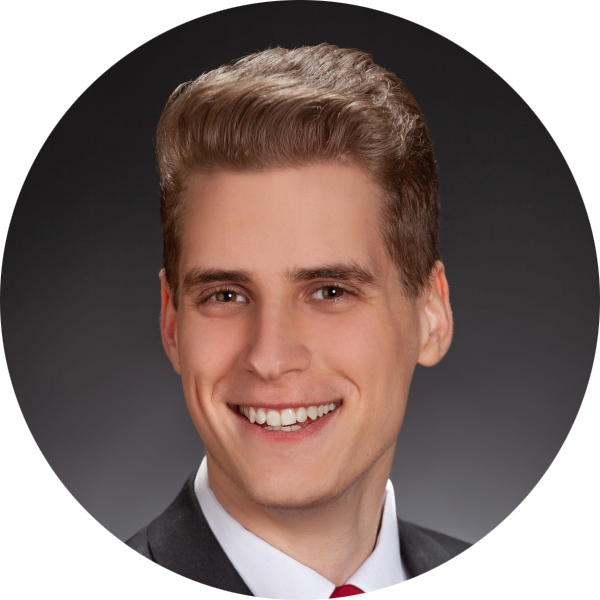
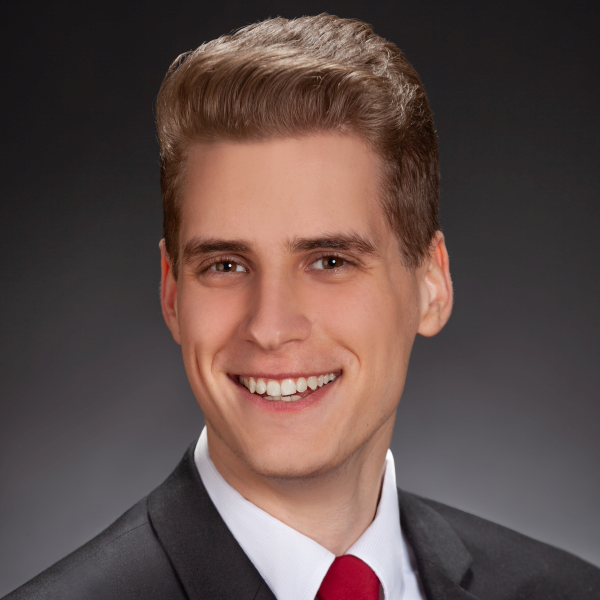
Updates

diff --git a/index.html b/index.html
@@ -1,1 +1,1 @@
-<!doctype html><html lang="en"><head><meta charset="utf-8"/><link rel="icon" href="/martin_bacsur.me/favicon.ico"/><meta name="viewport" content="width=device-width,initial-scale=1"/><meta name="theme-color" content="#000000"/><meta name="description" content="Web site created using create-react-app"/><link rel="apple-touch-icon" href="/martin_bacsur.me/logo192.png"/><link rel="manifest" href="/martin_bacsur.me/manifest.json"/><title>Martin Bacsur - Hungary</title><link href="/martin_bacsur.me/static/css/main.150d6966.chunk.css" rel="stylesheet"></head><body><noscript>You need to enable JavaScript to run this app.</noscript><div id="root"></div><script>!function(e){function r(r){for(var n,a,i=r[0],c=r[1],f=r[2],s=0,p=[];s<i.length;s++)a=i[s],Object.prototype.hasOwnProperty.call(o,a)&&o[a]&&p.push(o[a][0]),o[a]=0;for(n in c)Object.prototype.hasOwnProperty.call(c,n)&&(e[n]=c[n]);for(l&&l(r);p.length;)p.shift()();return u.push.apply(u,f||[]),t()}function t(){for(var e,r=0;r<u.length;r++){for(var t=u[r],n=!0,i=1;i<t.length;i++){var c=t[i];0!==o[c]&&(n=!1)}n&&(u.splice(r--,1),e=a(a.s=t[0]))}return e}var n={},o={1:0},u=[];function a(r){if(n[r])return n[r].exports;var t=n[r]={i:r,l:!1,exports:{}};return e[r].call(t.exports,t,t.exports,a),t.l=!0,t.exports}a.e=function(e){var r=[],t=o[e];if(0!==t)if(t)r.push(t[2]);else{var n=new Promise((function(r,n){t=o[e]=[r,n]}));r.push(t[2]=n);var u,i=document.createElement("script");i.charset="utf-8",i.timeout=120,a.nc&&i.setAttribute("nonce",a.nc),i.src=function(e){return a.p+"static/js/"+({}[e]||e)+"."+{3:"fb883f2f"}[e]+".chunk.js"}(e);var c=new Error;u=function(r){i.onerror=i.onload=null,clearTimeout(f);var t=o[e];if(0!==t){if(t){var n=r&&("load"===r.type?"missing":r.type),u=r&&r.target&&r.target.src;c.message="Loading chunk "+e+" failed.\n("+n+": "+u+")",c.name="ChunkLoadError",c.type=n,c.request=u,t[1](c)}o[e]=void 0}};var f=setTimeout((function(){u({type:"timeout",target:i})}),12e4);i.onerror=i.onload=u,document.head.appendChild(i)}return Promise.all(r)},a.m=e,a.c=n,a.d=function(e,r,t){a.o(e,r)||Object.defineProperty(e,r,{enumerable:!0,get:t})},a.r=function(e){"undefined"!=typeof Symbol&&Symbol.toStringTag&&Object.defineProperty(e,Symbol.toStringTag,{value:"Module"}),Object.defineProperty(e,"__esModule",{value:!0})},a.t=function(e,r){if(1&r&&(e=a(e)),8&r)return e;if(4&r&&"object"==typeof e&&e&&e.__esModule)return e;var t=Object.create(null);if(a.r(t),Object.defineProperty(t,"default",{enumerable:!0,value:e}),2&r&&"string"!=typeof e)for(var n in e)a.d(t,n,function(r){return e[r]}.bind(null,n));return t},a.n=function(e){var r=e&&e.__esModule?function(){return e.default}:function(){return e};return a.d(r,"a",r),r},a.o=function(e,r){return Object.prototype.hasOwnProperty.call(e,r)},a.p="/martin_bacsur.me/",a.oe=function(e){throw console.error(e),e};var i=this.webpackJsonpmartin_bacsur_dot_me=this.webpackJsonpmartin_bacsur_dot_me||[],c=i.push.bind(i);i.push=r,i=i.slice();for(var f=0;f<i.length;f++)r(i[f]);var l=c;t()}([])</script><script src="/martin_bacsur.me/static/js/2.4861e9f5.chunk.js"></script><script src="/martin_bacsur.me/static/js/main.0bc8b37c.chunk.js"></script></body></html>
+<!doctype html><html lang="en"><head><meta charset="utf-8"/><link rel="icon" href="/martin_bacsur.me/favicon.ico"/><meta name="viewport" content="width=device-width,initial-scale=1"/><meta name="theme-color" content="#000000"/><meta name="description" content="Web site created using create-react-app"/><link rel="apple-touch-icon" href="/martin_bacsur.me/logo192.png"/><link rel="manifest" href="/martin_bacsur.me/manifest.json"/><title>Martin Bacsur - Hungary</title><link href="/martin_bacsur.me/static/css/main.0732736b.chunk.css" rel="stylesheet"></head><body><noscript>You need to enable JavaScript to run this app.</noscript><div id="root"></div><script>!function(e){function r(r){for(var n,a,i=r[0],c=r[1],f=r[2],s=0,p=[];s<i.length;s++)a=i[s],Object.prototype.hasOwnProperty.call(o,a)&&o[a]&&p.push(o[a][0]),o[a]=0;for(n in c)Object.prototype.hasOwnProperty.call(c,n)&&(e[n]=c[n]);for(l&&l(r);p.length;)p.shift()();return u.push.apply(u,f||[]),t()}function t(){for(var e,r=0;r<u.length;r++){for(var t=u[r],n=!0,i=1;i<t.length;i++){var c=t[i];0!==o[c]&&(n=!1)}n&&(u.splice(r--,1),e=a(a.s=t[0]))}return e}var n={},o={1:0},u=[];function a(r){if(n[r])return n[r].exports;var t=n[r]={i:r,l:!1,exports:{}};return e[r].call(t.exports,t,t.exports,a),t.l=!0,t.exports}a.e=function(e){var r=[],t=o[e];if(0!==t)if(t)r.push(t[2]);else{var n=new Promise((function(r,n){t=o[e]=[r,n]}));r.push(t[2]=n);var u,i=document.createElement("script");i.charset="utf-8",i.timeout=120,a.nc&&i.setAttribute("nonce",a.nc),i.src=function(e){return a.p+"static/js/"+({}[e]||e)+"."+{3:"fb883f2f"}[e]+".chunk.js"}(e);var c=new Error;u=function(r){i.onerror=i.onload=null,clearTimeout(f);var t=o[e];if(0!==t){if(t){var n=r&&("load"===r.type?"missing":r.type),u=r&&r.target&&r.target.src;c.message="Loading chunk "+e+" failed.\n("+n+": "+u+")",c.name="ChunkLoadError",c.type=n,c.request=u,t[1](c)}o[e]=void 0}};var f=setTimeout((function(){u({type:"timeout",target:i})}),12e4);i.onerror=i.onload=u,document.head.appendChild(i)}return Promise.all(r)},a.m=e,a.c=n,a.d=function(e,r,t){a.o(e,r)||Object.defineProperty(e,r,{enumerable:!0,get:t})},a.r=function(e){"undefined"!=typeof Symbol&&Symbol.toStringTag&&Object.defineProperty(e,Symbol.toStringTag,{value:"Module"}),Object.defineProperty(e,"__esModule",{value:!0})},a.t=function(e,r){if(1&r&&(e=a(e)),8&r)return e;if(4&r&&"object"==typeof e&&e&&e.__esModule)return e;var t=Object.create(null);if(a.r(t),Object.defineProperty(t,"default",{enumerable:!0,value:e}),2&r&&"string"!=typeof e)for(var n in e)a.d(t,n,function(r){return e[r]}.bind(null,n));return t},a.n=function(e){var r=e&&e.__esModule?function(){return e.default}:function(){return e};return a.d(r,"a",r),r},a.o=function(e,r){return Object.prototype.hasOwnProperty.call(e,r)},a.p="/martin_bacsur.me/",a.oe=function(e){throw console.error(e),e};var i=this.webpackJsonpmartin_bacsur_dot_me=this.webpackJsonpmartin_bacsur_dot_me||[],c=i.push.bind(i);i.push=r,i=i.slice();for(var f=0;f<i.length;f++)r(i[f]);var l=c;t()}([])</script><script src="/martin_bacsur.me/static/js/2.4861e9f5.chunk.js"></script><script src="/martin_bacsur.me/static/js/main.0bc8b37c.chunk.js"></script></body></html>

diff --git a/static/css/main.0732736b.chunk.css b/static/css/main.0732736b.chunk.css
@@ -1,0 +1,2 @@
+@import url(https://fonts.googleapis.com/css2?family=Barlow:wght@300&display=swap);@import url(https://fonts.googleapis.com/css2?family=Open+Sans+Condensed:wght@300&display=swap);*{margin:0;padding:0;font-family:-apple-system,BlinkMacSystemFont,"Segoe UI","Roboto","Oxygen","Ubuntu","Cantarell","Fira Sans","Droid Sans","Helvetica Neue",sans-serif;-webkit-font-smoothing:antialiased;-moz-osx-font-smoothing:grayscale;text-decoration:none}code{font-family:source-code-pro,Menlo,Monaco,Consolas,"Courier New",monospace}.App{text-align:center;height:100vh;width:100%}.personal-informations{background-color:#44546a;display:flex;flex-direction:column;max-width:20rem;height:100%}.personal-informations .me-picture-holder{width:15rem;margin:.5rem auto;border-radius:50%;box-shadow:0 54px 55px rgba(0,0,0,.25),0 -12px 30px rgba(0,0,0,.12),0 4px 6px rgba(0,0,0,.12),0 12px 13px rgba(0,0,0,.17),0 -3px 5px rgba(0,0,0,.09);overflow:hidden}.personal-informations .me-picture-holder img{width:100%;height:auto}.personal-informations .arrow-decoration{margin:-3.5rem auto .5rem;background-color:#fff;height:13rem;width:100%;-webkit-clip-path:polygon(0 0,0 15%,50% 100%,100% 15%,100% 0,50% 80%);clip-path:polygon(0 0,0 15%,50% 100%,100% 15%,100% 0,50% 80%)}.personal-informations .about-me{margin:0 1rem auto;font-family:Arial,Helvetica,sans-serif;color:#fff}.personal-informations .about-me h3{font-family:Arial,Helvetica,sans-serif;font-size:2rem;border-bottom:5px solid #d5dce4}.personal-informations .about-me p{font-size:.9rem;margin:1rem auto;text-align:justify;font-weight:600}.main-informations{display:flex;flex-direction:column;margin:.4rem;width:100%;max-width:45rem}.main-informations .header{width:100%;height:7.5rem;background-color:#44546a;color:#fff;display:flex;flex-direction:column;align-items:center;justify-content:center}.main-informations .header h1{font-family:"Open Sans Condensed",sans-serif;font-size:3rem;text-transform:uppercase;letter-spacing:1px}.main-informations .cv-content-title,.main-informations .header h4{font-family:Calibri,"Trebuchet MS",sans-serif;font-size:1.5rem;font-weight:400}.main-informations .cv-content-title{margin:.5rem auto .5rem 5px;text-transform:uppercase;color:#44546a;border-bottom:2px solid #44546a;width:100%;text-align:left}.main-informations .work-experience{display:flex;flex-direction:column}.main-informations .work-experience .company{margin:.3rem auto 0 4rem;font-size:1.2rem;font-weight:400}.main-informations .work-experience .job{margin:0 auto .1rem 8rem}.main-informations .work-experience .firsthand-job{margin:.1rem auto .1rem 8rem;cursor:pointer}.main-informations .work-experience .firsthand-job:visited{color:#181819}.main-informations .technology-skills img{width:4rem;height:auto;margin:0 1rem}.main-informations .technology-skills .development-side{font-family:Calibri,"Trebuchet MS",sans-serif;font-size:1.3rem;font-weight:500;text-transform:uppercase;color:#44546a;width:100%}.main-informations .education{display:flex;flex-direction:column}.main-informations .education .education-date{font-family:Calibri,"Trebuchet MS",sans-serif;font-size:1.4rem;font-weight:500;text-transform:uppercase;color:#44546a;width:100%}.main-informations .education .education-school{font-weight:700}
+/*# sourceMappingURL=main.0732736b.chunk.css.map */
